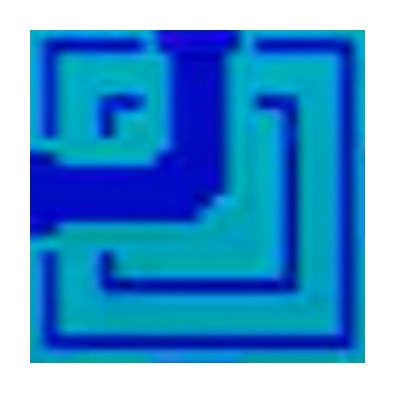
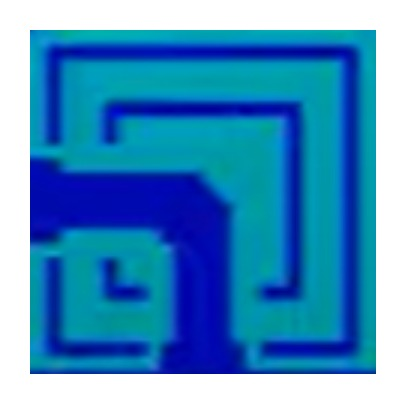
update: adjust pipe connections

diff --git a/src/classes/Grid.ts b/src/classes/Grid.ts
@@ -189,68 +189,67 @@ export class Grid {
         }
     }
 
-
     // refatorar este metodo para devolver coordenadas do pipe 
 
     private updateAdjacentCellWithWaterPipe(ctx: CanvasRenderingContext2D, row: number, col: number, adjacent: Cell): void{
-       debugger;
         const adjacentCellRow = adjacent.getRow();
         const adjacentCellCol = adjacent.getCol();
 
         const direction = this.getDirection(adjacentCellRow, adjacentCellCol, row, col);
-        const currentPipeType = this.cells[row][col].getPipe()?.getType();
-        const adjacentPipeType = this.cells[adjacentCellRow][adjacentCellCol].getPipe()?.getType();
-
-        let waterPipe: WaterPipe | null = null;
-
-        if( adjacentPipeType != null){
-            switch (direction) {
-                case "up":
-                    if(currentPipeType == PipeType.StartUp || currentPipeType == PipeType.Vertical || currentPipeType == PipeType.Cross || currentPipeType == PipeType.CurvedBottomLeft || currentPipeType == PipeType.CurvedBottomRight){
-                        waterPipe = new WaterPipe(adjacentPipeType);
-                    }
-                    break;
-                case "down":
-                    if(currentPipeType == PipeType.StartDown || currentPipeType == PipeType.Vertical || currentPipeType == PipeType.Cross|| currentPipeType == PipeType.CurvedTopRight || currentPipeType == PipeType.CurvedTopLeft){
-                        waterPipe = new WaterPipe(adjacentPipeType);
-                    }     
-                    break;       
-                case "right":
-                    if(currentPipeType == PipeType.StartRight || currentPipeType == PipeType.Horizontal || currentPipeType == PipeType.Cross || currentPipeType == PipeType.CurvedBottomRight || currentPipeType == PipeType.CurvedTopRight){
-                        waterPipe = new WaterPipe(adjacentPipeType);
-                    }            
-                    break;
-                case "left":
-                    if(currentPipeType == PipeType.StartLeft || currentPipeType == PipeType.Horizontal || currentPipeType == PipeType.Cross || currentPipeType == PipeType.CurvedBottomLeft || currentPipeType == PipeType.CurvedTopLeft){
-                        waterPipe = new WaterPipe(adjacentPipeType);
-                    }    
-                    break;
-            }
-        }
+        const currentPipe = this.cells[row][col].getPipe();
+        const adjacentPipe = this.cells[adjacentCellRow][adjacentCellCol].getPipe();
         
-        if(waterPipe){
-            this.cells[adjacentCellRow][adjacentCellCol].setPipe(waterPipe);
-            const { x, y} = this.getCellPosition(adjacentCellRow,adjacentCellCol,ctx);
-            waterPipe.fillPipeWithWater()
-        }
-        //this.updateAdjacentCellsWithWater(ctx, adjacentCellRow, adjacentCellCol);
+        if (this.arePipesCompatible(currentPipe, adjacentPipe, direction)) {
 
+            const waterPipe = new WaterPipe(adjacentPipe!.getType()); // Garantimos que o adjacente é válido aqui
+            this.cells[adjacentCellRow][adjacentCellCol].setPipe(waterPipe);
+            this.cells[adjacentCellRow][adjacentCellCol].setPipe(waterPipe);
+            waterPipe.fillPipeWithWater()
+    
+            this.updateAdjacentCellsWithWater(ctx, adjacentCellRow, adjacentCellCol);
+        }
     }
 
-    private getDirection(adjacentCellRow: number, adjacentCellCol: number, row:number, col:number): String{
-        if(adjacentCellRow - row < 0){
-            return "up";
-        }
-        else if(adjacentCellRow - row > 0){
-            return "down";
-        }
-        else if(adjacentCellCol - col > 0){
-            return "right";
-        }
-        else if(adjacentCellRow - row < 0){
-            return"left";
-        }
+        // Novo método para verificar compatibilidade entre pipes
+    private arePipesCompatible(currentPipe: Pipe | null, adjacentPipe: Pipe | null, direction: string): boolean {
+        if (!currentPipe || !adjacentPipe) return false;
+    
+        const compatibilityMap: Record<PipeType, Record<string, boolean>> = {
+            [PipeType.Vertical]: { up: true, down: true },
+            [PipeType.Horizontal]: { left: true, right: true },
+            [PipeType.Cross]: { up: true, down: true, left: true, right: true },
+            [PipeType.CurvedBottomLeft]: { up: false, down: true, left: true, right: false },
+            [PipeType.CurvedBottomRight]: { up: false, down: true, left: false, right: true },
+            [PipeType.CurvedTopLeft]: { up: true, down: false, left: true, right: false },
+            [PipeType.CurvedTopRight]: { up: true, down: false, left: false, right: true },
+            [PipeType.StartUp]: { up: true },
+            [PipeType.StartDown]: { down: true },
+            [PipeType.StartLeft]: { left: true },
+            [PipeType.StartRight]: { right: true }
+        };
+    
+        // Verifica se a direção é compatível no pipe atual e no pipe adjacente
+        return compatibilityMap[currentPipe.getType()]?.[direction] && 
+                compatibilityMap[adjacentPipe.getType()]?.[this.getOppositeDirection(direction)];
+    }
+
+
+    private getDirection(adjacentCellRow: number, adjacentCellCol: number, row: number, col: number): string {
+        if (adjacentCellRow < row) return "up";
+        if (adjacentCellRow > row) return "down";
+        if (adjacentCellCol > col) return "right";
+        if (adjacentCellCol < col) return "left";
         return "";
+    }
+        
+    private getOppositeDirection(direction: string): string {
+        const opposites: Record<string, string> = {
+            up: "down",
+            down: "up",
+            left: "right",
+            right: "left"
+        };
+        return opposites[direction];
     }
 
     private getPossibleConnectionsToAdjacentPipes(currentCell: Cell) {
@@ -290,6 +289,42 @@ export class Grid {
             }
             if (this.isValidCell(row, col - 1) && this.containsPipe(row, col - 1)) {
                 possibleConnections.push(this.cells[row][col - 1]);
+            }
+        }
+        else if (currentPipeType === PipeType.CurvedBottomLeft) {
+            // Verifica conexões para CurvedBottomLeft
+            if (this.isValidCell(row + 1, col) && this.containsPipe(row + 1, col)) {
+                possibleConnections.push(this.cells[row + 1][col]); // Conexão para baixo
+            }
+            if (this.isValidCell(row, col - 1) && this.containsPipe(row, col - 1)) {
+                possibleConnections.push(this.cells[row][col - 1]); // Conexão para a esquerda
+            }
+        } 
+        else if (currentPipeType === PipeType.CurvedBottomRight) {
+            // Verifica conexões para CurvedBottomRight
+            if (this.isValidCell(row + 1, col) && this.containsPipe(row + 1, col)) {
+                possibleConnections.push(this.cells[row + 1][col]); // Conexão para baixo
+            }
+            if (this.isValidCell(row, col + 1) && this.containsPipe(row, col + 1)) {
+                possibleConnections.push(this.cells[row][col + 1]); // Conexão para a direita
+            }
+        } 
+        else if (currentPipeType === PipeType.CurvedTopLeft) {
+            // Verifica conexões para CurvedTopLeft
+            if (this.isValidCell(row - 1, col) && this.containsPipe(row - 1, col)) {
+                possibleConnections.push(this.cells[row - 1][col]); // Conexão para cima
+            }
+            if (this.isValidCell(row, col - 1) && this.containsPipe(row, col - 1)) {
+                possibleConnections.push(this.cells[row][col - 1]); // Conexão para a esquerda
+            }
+        } 
+        else if (currentPipeType === PipeType.CurvedTopRight) {
+            // Verifica conexões para CurvedTopRight
+            if (this.isValidCell(row - 1, col) && this.containsPipe(row - 1, col)) {
+                possibleConnections.push(this.cells[row - 1][col]); // Conexão para cima
+            }
+            if (this.isValidCell(row, col + 1) && this.containsPipe(row, col + 1)) {
+                possibleConnections.push(this.cells[row][col + 1]); // Conexão para a direita
             }
         }
 

diff --git a/src/classes/WaterPipe.ts b/src/classes/WaterPipe.ts
@@ -47,13 +47,13 @@ export class WaterPipe implements Pipe {
       case "vertical":
         return [waterImages.vertical33c, waterImages.vertical66c, waterImages.vertical100];
       case "curvedBottomRight":
-        return [waterImages.curvedBottomTR33c, waterImages.curvedBottomTR33d, waterImages.curvedBottomTR66c, waterImages.curvedBottomTR66d, waterImages.curvedBottomTR100];
+        return [waterImages.curvedTopBR33b, waterImages.curvedTopBR66b, waterImages.curvedTopBR100];
       case "curvedBottomLeft":
-        return [waterImages.curvedBottomTL33c, waterImages.curvedBottomTL66e, waterImages.curvedBottomTL100, waterImages.curvedBottomTL66c, waterImages.curvedBottomTL33e];
-      case "curvedTopRight":
-        return [waterImages.curvedTopBR33b, waterImages.curvedTopBR66d, waterImages.curvedTopBR100, waterImages.curvedTopBR66b];
-      case "curvedTopLeft":
         return [waterImages.curvedTopBL33b, waterImages.curvedTopBL66b, waterImages.curvedTopBL100];
+      case "curvedTopLeft":
+        return [waterImages.curvedBottomTL33b, waterImages.curvedBottomTL66b, waterImages.curvedBottomTL100];
+      case "curvedTopRight":
+        return [waterImages.curvedBottomTR33c, waterImages.curvedBottomTR66, waterImages.curvedBottomTR100];
       case "cross":
         return [waterImages.cross33d, waterImages.cross66e, waterImages.cross100H, waterImages.cross100V];
       default:

diff --git a/src/configuration/gameConfiguration.ts b/src/configuration/gameConfiguration.ts
@@ -100,8 +100,8 @@ export const waterImages = loadImages({
   curvedBottomTL: 'src/assets/waterflow/curvedBottom/TL',
   curvedBottomTR33c: 'src/assets/waterflow/curvedBottom/TR/33c.jpeg',
   curvedBottomTR33d: 'src/assets/waterflow/curvedBottom/TR/33d.jpeg',
-  curvedBottomTR66c: 'src/assets/waterflow/curvedBottom/TR/66c.jpeg',
-  curvedBottomTR66d: 'src/assets/waterflow/curvedBottom/TR/66d.jpeg',
+  curvedBottomTR66c: 'src/assets/waterflow/curvedBottom/TR/66.jpeg',
+  //curvedBottomTR66d: 'src/assets/waterflow/curvedBottom/TR/66d.jpeg',
   curvedBottomTR100: 'src/assets/waterflow/curvedBottom/TR/100.jpeg',
   curvedBottom: 'src/assets/waterflow/curvedBottom',
   cross100V: 'src/assets/waterflow/cross/100V.jpeg',
